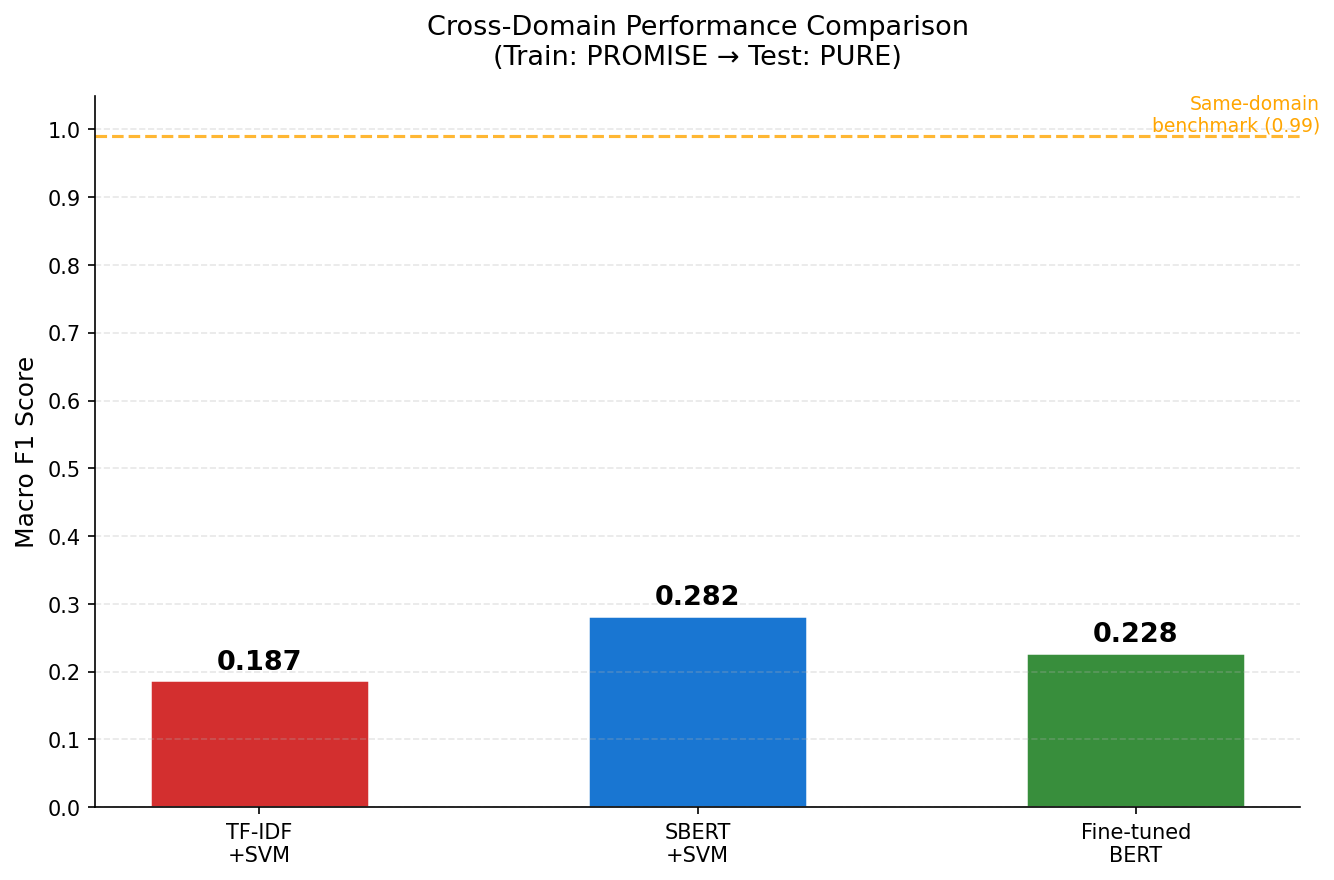
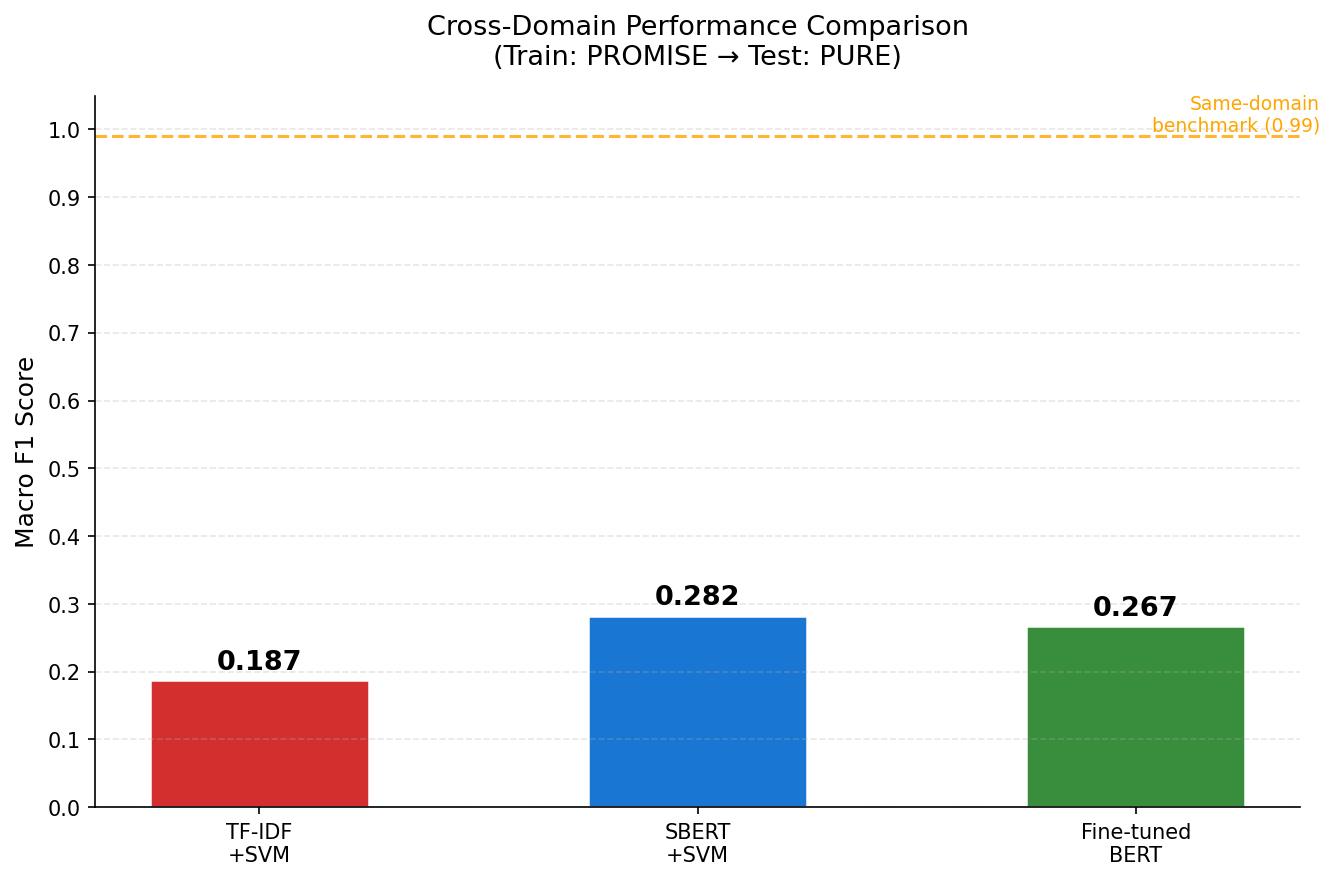
Update results and generate visuals with new BERT results

Changed region(s): [[0.7684, 0.675, 0.9528, 0.767]]

diff --git a/src/generate_visuals.py b/src/generate_visuals.py
@@ -3,6 +3,8 @@
 # Loads results from results/ folder automatically
 
 import numpy as np
+import matplotlib
+matplotlib.use("Agg")
 import matplotlib.pyplot as plt
 import seaborn as sns
 from sklearn.metrics import confusion_matrix
@@ -13,6 +15,7 @@ import warnings
 warnings.filterwarnings('ignore')
 
 print("Generating all visuals...")
+os.makedirs("results", exist_ok=True)
 
 # ================================================
 # LOAD RESULTS FROM FILES
@@ -27,7 +30,7 @@ try:
 except FileNotFoundError:
     print("WARNING: sbert_fewshot_summary.csv not found — using hardcoded values")
     samples = [0, 10, 50, 100, 500]
-    sbert_f1 = [0.266, 0.408, 0.529, 0.574, 0.654]
+    sbert_f1 = [0.266, 0.409, 0.529, 0.574, 0.655]
 
 # Load BERT few-shot results
 try:
@@ -38,15 +41,17 @@ except FileNotFoundError:
     print("WARNING: bert_fewshot_summary.csv not found — using hardcoded values")
     bert_fewshot_f1 = [0.201, 0.567, 0.612, 0.587, 0.773]
 
-# Load BERT cross-domain result
+# Load BERT cross-domain result + classification report if available
 try:
     with open("results/bert_classifier_results.json") as f:
         bert_results = json.load(f)
     bert_cross_domain_f1 = bert_results["macro_f1"]
+    bert_report = bert_results.get("classification_report", None)
     print("Loaded BERT cross-domain result from results/bert_classifier_results.json")
 except FileNotFoundError:
     print("WARNING: bert_classifier_results.json not found — using hardcoded value")
     bert_cross_domain_f1 = 0.228
+    bert_report = None
 
 # Load SBERT cross-domain result
 try:
@@ -56,44 +61,107 @@ try:
     print("Loaded SBERT cross-domain result from results/sbert_svm_results.json")
 except FileNotFoundError:
     print("WARNING: sbert_svm_results.json not found — using hardcoded value")
-    sbert_cross_domain_f1 = 0.266
+    sbert_cross_domain_f1 = 0.282
 
-# Load TF-IDF cross-domain result
+# Load TF-IDF cross-domain result + classification report
 try:
     with open("results/tfidf_svm_results.json") as f:
         tfidf_results = json.load(f)
     tfidf_cross_domain_f1 = tfidf_results["macro_f1"]
+    tfidf_report = tfidf_results.get("classification_report", None)
     print("Loaded TF-IDF cross-domain result from results/tfidf_svm_results.json")
 except FileNotFoundError:
     print("WARNING: tfidf_svm_results.json not found — using hardcoded value")
     tfidf_cross_domain_f1 = 0.187
+    tfidf_report = None
 
 # Model comparison
 models = ['TF-IDF\n+SVM', 'SBERT\n+SVM', 'Fine-tuned\nBERT']
 cross_domain_f1 = [tfidf_cross_domain_f1, sbert_cross_domain_f1, bert_cross_domain_f1]
-
-# BERT confusion matrix values from actual results
-bert_true = [0] * 9532 + [1] * 1908
-bert_pred = (
-    [0] * 953 + [1] * 8579 +
-    [0] * 191 + [1] * 1717
-)
-
-os.makedirs("results", exist_ok=True)
+labels = ['Functional', 'Non-Functional']
 
 # ================================================
-# VISUAL 1 — BERT CONFUSION MATRIX
+# VISUAL 1 — TF-IDF CONFUSION MATRIX (from results file)
 # ================================================
-print("\nCreating BERT confusion matrix...")
+print("\nCreating TF-IDF confusion matrix...")
+
+if tfidf_report:
+    fr_support = int(tfidf_report["Functional"]["support"])
+    nfr_support = int(tfidf_report["Non-Functional"]["support"])
+    fr_recall = tfidf_report["Functional"]["recall"]
+    nfr_recall = tfidf_report["Non-Functional"]["recall"]
+    tp_fr = int(round(fr_recall * fr_support))
+    fn_fr = fr_support - tp_fr
+    tp_nfr = int(round(nfr_recall * nfr_support))
+    fn_nfr = nfr_support - tp_nfr
+    tfidf_cm = np.array([[tp_fr, fn_fr],
+                         [fn_nfr, tp_nfr]])
+else:
+    # From known results: FR recall=0.05, support=9532 | NFR recall=0.93, support=1908
+    tfidf_cm = np.array([[480, 9052],
+                         [134, 1774]])
 
 fig, ax = plt.subplots(figsize=(7, 6))
+tfidf_cm_pct = tfidf_cm.astype('float') / tfidf_cm.sum(axis=1)[:, np.newaxis] * 100
 
-cm_bert = confusion_matrix(bert_true, bert_pred)
-cm_bert_pct = cm_bert.astype('float') / cm_bert.sum(axis=1)[:, np.newaxis] * 100
-
-labels = ['Functional', 'Non-Functional']
 sns.heatmap(
-    cm_bert_pct,
+    tfidf_cm_pct,
+    annot=True,
+    fmt='.1f',
+    cmap='rocket',
+    xticklabels=labels,
+    yticklabels=labels,
+    ax=ax,
+    linewidths=0.5,
+    linecolor='white',
+    annot_kws={"size": 13}
+)
+
+for i in range(2):
+    for j in range(2):
+        ax.text(j + 0.5, i + 0.72,
+                f'n={tfidf_cm[i][j]:,}',
+                ha='center', va='center',
+                fontsize=9, color='white')
+
+ax.set_xlabel('Predicted Label', fontsize=12, labelpad=10)
+ax.set_ylabel('True Label', fontsize=12, labelpad=10)
+ax.set_title('TF-IDF + SVM Confusion Matrix\n(Train: PROMISE → Test: PURE)', fontsize=13, pad=15)
+plt.tight_layout()
+plt.savefig('confusion_matrix.png', dpi=150, bbox_inches='tight')
+plt.close()
+print("Saved: confusion_matrix.png")
+
+# ================================================
+# VISUAL 2 — BERT CONFUSION MATRIX
+# ================================================
+print("Creating BERT confusion matrix...")
+
+if bert_report:
+    fr_key = "Functional" if "Functional" in bert_report else "0"
+    nfr_key = "Non-Functional" if "Non-Functional" in bert_report else "1"
+    fr_support = int(bert_report[fr_key]["support"])
+    nfr_support = int(bert_report[nfr_key]["support"])
+    fr_recall = bert_report[fr_key]["recall"]
+    nfr_recall = bert_report[nfr_key]["recall"]
+    tp_fr = int(round(fr_recall * fr_support))
+    fn_fr = fr_support - tp_fr
+    tp_nfr = int(round(nfr_recall * nfr_support))
+    fn_nfr = nfr_support - tp_nfr
+    bert_cm = np.array([[tp_fr, fn_fr],
+                        [fn_nfr, tp_nfr]])
+    title_note = "Train: PROMISE → Test: PURE"
+else:
+    # Approximate from known results: FR recall=0.10, NFR recall=0.90
+    bert_cm = np.array([[953, 8579],
+                        [191, 1717]])
+    title_note = "Train: PROMISE → Test: PURE (approximate)"
+
+fig, ax = plt.subplots(figsize=(7, 6))
+bert_cm_pct = bert_cm.astype('float') / bert_cm.sum(axis=1)[:, np.newaxis] * 100
+
+sns.heatmap(
+    bert_cm_pct,
     annot=True,
     fmt='.1f',
     cmap='Blues',
@@ -105,29 +173,27 @@ sns.heatmap(
     annot_kws={"size": 13}
 )
 
-ax.set_xlabel('Predicted Label', fontsize=12, labelpad=10)
-ax.set_ylabel('True Label', fontsize=12, labelpad=10)
-ax.set_title('BERT Confusion Matrix\n(Train: PROMISE → Test: PURE)', fontsize=13, pad=15)
-
 for i in range(2):
     for j in range(2):
         ax.text(j + 0.5, i + 0.72,
-                f'n={cm_bert[i][j]:,}',
+                f'n={bert_cm[i][j]:,}',
                 ha='center', va='center',
                 fontsize=9, color='gray')
 
+ax.set_xlabel('Predicted Label', fontsize=12, labelpad=10)
+ax.set_ylabel('True Label', fontsize=12, labelpad=10)
+ax.set_title(f'BERT Confusion Matrix\n({title_note})', fontsize=13, pad=15)
 plt.tight_layout()
 plt.savefig('bert_confusion_matrix.png', dpi=150, bbox_inches='tight')
 plt.close()
 print("Saved: bert_confusion_matrix.png")
 
 # ================================================
-# VISUAL 2 — COMBINED MODEL COMPARISON BAR CHART
+# VISUAL 3 — MODEL COMPARISON BAR CHART
 # ================================================
 print("Creating model comparison bar chart...")
 
 fig, ax = plt.subplots(figsize=(9, 6))
-
 colors = ['#d32f2f', '#1976d2', '#388e3c']
 bars = ax.bar(models, cross_domain_f1, color=colors, width=0.5,
               edgecolor='white', linewidth=1.2)
@@ -153,20 +219,18 @@ ax.set_yticks([0, 0.1, 0.2, 0.3, 0.4, 0.5, 0.6, 0.7, 0.8, 0.9, 1.0])
 ax.grid(axis='y', alpha=0.3, linestyle='--')
 ax.spines['top'].set_visible(False)
 ax.spines['right'].set_visible(False)
-
 plt.tight_layout()
 plt.savefig('model_comparison_chart.png', dpi=150, bbox_inches='tight')
 plt.close()
 print("Saved: model_comparison_chart.png")
 
 # ================================================
-# VISUAL 3 — BERT vs SBERT FEW-SHOT CURVE
+# VISUAL 4 — SBERT FEW-SHOT CURVE
 # ================================================
-print("Creating BERT vs SBERT few-shot curve...")
+print("Creating SBERT few-shot curve...")
 
 fig, ax = plt.subplots(figsize=(9, 6))
 
-# SBERT line
 ax.plot(samples, sbert_f1,
         marker='o', markersize=8, linewidth=2.5,
         color='#1976d2', label='Sentence-BERT + SVM',
@@ -179,7 +243,40 @@ for x, y in zip(samples, sbert_f1):
                 xytext=(0, 12),
                 ha='center', fontsize=9, color='#1976d2')
 
-# BERT line
+ax.set_xlabel('Number of PURE Samples Added to Training', fontsize=12)
+ax.set_ylabel('Macro F1 Score', fontsize=12)
+ax.set_title('SBERT Few-Shot Domain Adaptation Curve\n(Train: PROMISE → Test: PURE)',
+             fontsize=13, pad=15)
+ax.set_xticks(samples)
+ax.set_ylim(0.1, 0.85)
+ax.grid(alpha=0.3, linestyle='--')
+ax.legend(fontsize=11, loc='lower right')
+ax.spines['top'].set_visible(False)
+ax.spines['right'].set_visible(False)
+plt.tight_layout()
+plt.savefig('fewshot_adaptation_curve.png', dpi=150, bbox_inches='tight')
+plt.close()
+print("Saved: fewshot_adaptation_curve.png")
+
+# ================================================
+# VISUAL 5 — BERT vs SBERT FEW-SHOT CURVE
+# ================================================
+print("Creating BERT vs SBERT few-shot curve...")
+
+fig, ax = plt.subplots(figsize=(9, 6))
+
+ax.plot(samples, sbert_f1,
+        marker='o', markersize=8, linewidth=2.5,
+        color='#1976d2', label='Sentence-BERT + SVM',
+        zorder=3)
+
+for x, y in zip(samples, sbert_f1):
+    ax.annotate(f'{y:.3f}',
+                (x, y),
+                textcoords="offset points",
+                xytext=(0, 12),
+                ha='center', fontsize=9, color='#1976d2')
+
 ax.plot(samples, bert_fewshot_f1,
         marker='s', markersize=8, linewidth=2.5,
         color='#388e3c', label='Fine-tuned BERT',
@@ -202,7 +299,6 @@ ax.grid(alpha=0.3, linestyle='--')
 ax.legend(fontsize=11, loc='lower right')
 ax.spines['top'].set_visible(False)
 ax.spines['right'].set_visible(False)
-
 plt.tight_layout()
 plt.savefig('bert_vs_sbert_fewshot.png', dpi=150, bbox_inches='tight')
 plt.close()
@@ -213,6 +309,11 @@ print("Saved: bert_vs_sbert_fewshot.png")
 # ================================================
 print("\nAll visuals generated successfully.")
 print("Files saved:")
-print("  bert_confusion_matrix.png")
-print("  model_comparison_chart.png")
-print("  bert_vs_sbert_fewshot.png")
+print("  confusion_matrix.png         — TF-IDF confusion matrix")
+print("  bert_confusion_matrix.png    — BERT confusion matrix")
+print("  model_comparison_chart.png   — all 3 models bar chart")
+print("  fewshot_adaptation_curve.png — SBERT few-shot curve")
+print("  bert_vs_sbert_fewshot.png    — BERT vs SBERT curve")
+if not bert_report:
+    print("\nNOTE: BERT confusion matrix uses approximate values.")
+    print("Rerun bert_classifier.py to save full report, then rerun this file.")

diff --git a/src/optimize_models.py b/src/optimize_models.py
@@ -174,3 +174,30 @@ pure_macro_f1 = f1_score(y_pure, pure_preds, average="macro")
 print("\nPURE Macro F1:", round(pure_macro_f1, 4))
 print("\nClassification Report on PURE:")
 print(classification_report(y_pure, pure_preds))
+
+# ==============================
+# SAVE RESULTS
+# ==============================
+import os
+import json
+
+os.makedirs("results", exist_ok=True)
+
+results_data = {
+    "experiment": "Hyperparameter Optimization (GridSearchCV)",
+    "train": "PROMISE",
+    "best_svm_params": svm_grid.best_params_,
+    "best_svm_macro_f1": round(svm_f1, 3),
+    "best_logistic_params": log_grid.best_params_,
+    "best_logistic_macro_f1": round(log_f1, 3),
+    "cross_domain_macro_f1": round(pure_macro_f1, 3),
+    "cross_domain_report": classification_report(
+        y_pure, pure_preds,
+        output_dict=True
+    )
+}
+
+with open("results/optimize_models_results.json", "w") as f:
+    json.dump(results_data, f, indent=4)
+
+print("\nResults saved to results/optimize_models_results.json")

diff --git a/README.md b/README.md
@@ -38,7 +38,7 @@ The label distribution literally flips between datasets. That's the core challen
 |-------|----------|
 | TF-IDF + SVM | 0.187 |
 | SBERT + SVM | 0.282 |
-| Fine-tuned BERT | 0.228 |
+| Fine-tuned BERT | 0.267 |
 
 **SBERT few-shot domain adaptation:**
 
